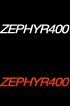
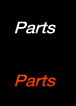
Fix yokohama

Changed region(s): [[0.0, 0.6792, 1.0, 0.8208], [0.0, 0.1981, 1.0, 0.3396]]

diff --git a/yokohama_parts.html b/yokohama_parts.html
@@ -1,0 +1,95 @@
+<?xml version="1.0" encoding="utf-8"?>
+<!DOCTYPE html PUBLIC "-//W3C//DTD XHTML 1.0 Transitional//EN" "http://www.w3.org/TR/xhtml1/DTD/xhtml1-transitional.dtd">
+<html xmlns="http://www.w3.org/1999/xhtml" lang="ja-JP" xml:lang="ja-JP">
+<head>
+<meta http-equiv="content-type" content="text/html; charset=utf-8" />
+<meta http-equiv="Content-Script-Type" content="text/javascript" />
+<meta http-equiv="Content-Style-Type" content="text/css" />
+<meta name="keywords" content="横浜スタイル　DEEPINSIDE ディープインサイド バイク" />
+<meta name="description" content="横浜スタイル☆トータルプロデュース！元祖横浜スタイルはお任せください。" />
+<title>横浜スタイル | DEEPINSIDE mc045</title>
+<link rel="stylesheet" href="css/common.css" type="text/css" />
+<link rel="stylesheet" href="css/shop.css" type="text/css" />
+<link rel="stylesheet" href="css/lightbox.css" type="text/css" />
+<link rel="stylesheet" href="css/yokohamaParts.css" type="text/css" />
+<script type="text/javascript" src="js/jquery.js"></script>
+<script type="text/javascript" src="js/common.js"></script>
+<script type="text/javascript" src="js/crossSlide.js"></script>
+<script type="text/javascript" src="js/cycle.js"></script>
+<script type="text/javascript" src="js/expander.js"></script>
+<script type="text/javascript" src="js/bxSlider.js"></script>
+<script type="text/javascript" src="js/shop.js"></script>
+<script type="text/javascript" src="js/jquery.lightbox.js"></script>
+<script>
+$(function(){
+	$('#list a').lightBox({fixedNavigation:true});
+})
+</script>
+</head>
+<body>
+
+	<div id="container">
+  	<?php require("./module/header.html"); ?>
+    
+    <div id="wrapper">
+    	<div id="mask">
+      	<img src="images/mask.png" width="1280" height="635" alt="mask" />
+      </div>
+      
+      <?php require("./module/key_visual_yokohama.html"); ?>
+      
+    	<div id="main" class="yokohama">
+      	<?php require("./module/lead_block_default.html"); ?>
+        
+        <div id="bottomMenu">
+        	<div id="navWrap">
+          	<dl>
+            	<dt>DEEP☆INSIDE .Street</dd>
+            	<dd class="nav1"><a href="yokohama.html" class="current">Home</a></dd>
+              <dd class="nav2"><a href="http://www.goobike.com/shop/client_8502081/showroom.html" target="_blank">Showroom</a></dd>
+              <dd class="nav3"><a href="yokohama_complete.html">DEEP Complete</a></dd>
+              <dd class="nav4"><a href="yokohama_zep.html">ZEPHYR0</a></dd>
+              <dd class="nav5"><a href="yokohama_balios.html">Balios</a></dd>
+              <dd class="nav6"><a href="javascript:void(0)" class="current">Parts</a></dd>
+            </dl><!-- /#nav -->
+          </div><!-- /#navWrap -->
+          <div id="content">
+
+            <div id="block1" class="mt30">
+              <img src="images/yokohamaPartsLine1.jpg" alt="カスタムパーツ一覧 横浜スタイル" class="mb20" />
+              <ul id="list">
+                <li><a href="images/goods/1_1.jpg" title="<p class='ttl'>ZEPHERY1100 Mk-Ⅱ外装セット 寺崎 Ver. ¥250,000(税抜) フェンダーレスKIT付・ボルトオン・ノーマルシート対応(FXタンクキャップ、Mk-Ⅱテールランプ別売り)</p><p class='link'><a href='goods2.html'>ご購入はこちらから</a></p>"><img src="images/goods/1_1s.jpg" title="hoge"/></a></li>
+                <li><a href="images/goods/1_2.jpg" title="<p class='ttl'>ZEPHERY1100 Mk-Ⅱ外装セット 本牧 Ver. ¥250,000(税抜) フェンダーレスKIT付・ボルトオン・ノーマルシート対応(FXタンクキャップ、Mk-Ⅱテールランプ別売り)</p><p class='link'><a href='goods2.html'>ご購入はこちらから</a></p>"><img src="images/goods/1_2s.jpg" /></a></li>
+                <li><a href="images/goods/1_3.jpg" title="<p class='ttl'>ZEPHERY1100 Mk-Ⅱ外装セット 赤レンガ Ver. ¥250,000(税抜) フェンダーレスKIT付・ボルトオン・ノーマルシート対応(FXタンクキャップ、Mk-Ⅱテールランプ別売り)</p><p class='link'><a href='goods2.html'>ご購入はこちらから</a></p>"><img src="images/goods/1_3s.jpg" /></a></li>
+                <li><a href="images/goods/1_4.jpg" title="<p class='ttl'>ZEPHERY1100 Mk-Ⅱ外装セット 横須賀 Ver. ¥250,000(税抜) フェンダーレスKIT付・ボルトオン・ノーマルシート対応(FXタンクキャップ、Mk-Ⅱテールランプ別売り)</p><p class='link'><a href='goods2.html'>ご購入はこちらから</a></p>"><img src="images/goods/1_4s.jpg" /></a></li>
+                <li><a href="images/goods/1_5.jpg" title="<p class='ttl'>ZEPHERY1100 Mk-Ⅱ外装セット 黒ゲル ¥190,000(税抜) フェンダーレスKIT付・ボルトオン・ノーマルシート対応(FXタンクキャップ、Mk-Ⅱテールランプ別売り)</p><p class='link'><a href='goods2.html'>ご購入はこちらから</a></p>"><img src="images/goods/1_5s.jpg" /></a></li>
+                <li><a href="images/goods/2_1.jpg" title="<p class='ttl'>ZEPHERY ショート管 1100用 ¥45,000(税抜) / 750用 ¥45,000(税抜) / 400χ用 ¥35,000(税抜)</p><p class='link'><a href='goods2.html'>ご購入はこちらから</a></p>"><img src="images/goods/2_1s.jpg" /></a></li>
+                <li><a href="images/goods/2_2.jpg" title="<p class='ttl'>ZEPHERY モナカ管 1100用 ¥49,000(税抜) / 750用 ¥49,000(税抜) / 400χ用 ¥49,000(税抜)</p><p class='link'><a href='goods2.html'>ご購入はこちらから</a></p>"><img src="images/goods/2_2s.jpg" /></a></li>
+              </ul>
+            </div><!-- /#block1 -->
+            
+            <div id="block2" class="mb30">
+            	<img src="images/yokohamaPartsLine2.jpg" alt="DEEP管 横浜スタイル" class="mb20" />
+              <div class="hdn mr10 ml10">
+              	<div class="lt"><img src="images/partsImg1.jpg" alt="DEEP管 横浜スタイル" /></div>
+            		<div class="rt">
+                	<p><iframe width="280" height="200" src="http://www.youtube.com/embed/1myjyZfLAhs" frameborder="0" allowfullscreen></iframe></p>
+                  <p class="mt05"><iframe width="280" height="200" src="http://www.youtube.com/embed/jm4NPZ02JcE" frameborder="0" allowfullscreen></iframe></p>
+                </div>
+            </div><!-- /#block2 -->
+
+          </div><!-- /#content -->
+
+          
+        </div><!-- /#bottomMenu -->
+        
+        <?php require("./module/bnr_area.html"); ?>
+        
+        <?php require("./module/footer.html"); ?>
+        
+      </div><!-- /#main -->
+    </div><!-- /#wrapper -->
+  </div><!-- /#container -->
+
+</body>
+</html>

diff --git a/yokohama_zep.html b/yokohama_zep.html
@@ -11,7 +11,7 @@
 <link rel="stylesheet" href="css/common.css" type="text/css" />
 <link rel="stylesheet" href="css/shop.css" type="text/css" />
 <link rel="stylesheet" href="css/lightbox.css" type="text/css" />
-<link rel="stylesheet" href="css/yokohamaTw.css" type="text/css" />
+<link rel="stylesheet" href="css/yokohamaZep.css" type="text/css" />
 <script type="text/javascript" src="js/jquery.js"></script>
 <script type="text/javascript" src="js/common.js"></script>
 <script type="text/javascript" src="js/crossSlide.js"></script>
@@ -19,6 +19,7 @@
 <script type="text/javascript" src="js/expander.js"></script>
 <script type="text/javascript" src="js/bxSlider.js"></script>
 <script type="text/javascript" src="js/shop.js"></script>
+<script type="text/javascript" src="js/yokohamaZep.js"></script>
 <script type="text/javascript" src="js/jquery.lightbox.js"></script>
 <script>
 $(function(){
@@ -45,17 +46,42 @@ $(function(){
         	<div id="navWrap">
           	<dl>
             	<dt>DEEP☆INSIDE .Street</dd>
-
-            	<dd class="nav1"><a href="yokohama.html" class="">Home</a></dd>
+            	<dd class="nav1"><a href="yokohama.html">Home</a></dd>
               <dd class="nav2"><a href="http://www.goobike.com/shop/client_8502081/showroom.html" target="_blank">Showroom</a></dd>
               <dd class="nav3"><a href="yokohama_complete.html">DEEP Complete</a></dd>
-              <dd class="nav4"><a href="javascript:void(0)" class="current">ZEPHYR1100</a></dd>
-              <dd class="nav5"><a href="yokohama_zep750.html">ZEPHYR750</a></dd>
-              <dd class="nav6"><a href="yokohama_zep400.html">ZEPHYR400</a></dd>
-              <dd class="nav7"><a href="yokohama_balios.html">Balios</a></dd>
+              <dd class="nav4"><a href="javascript:void(0)" class="current">ZEPHYR0</a></dd>
+              <dd class="nav5"><a href="yokohama_balios.html">Balios</a></dd>
+              <dd class="nav6"><a href="yokohama_parts.html">Parts</a></dd>
             </dl><!-- /#nav -->
           </div><!-- /#navWrap -->
-          <div id="showCase">
+          <div id="tab">
+            <ul>
+              <li id="sw1"><a href="javascript:void(0)" class="current">zephyr400</a></li>
+              <li id="sw2"><a href="javascript:void(0)">zephyr750</a></li>
+              <li id="sw3"><a href="javascript:void(0)">zephyr1100</a></li>
+            </ul>
+          </div>
+          <div id="showCase1">
+          	<p class="mt30"><img src="images/zephyr400/ttlZep400.jpg" /></p>
+          	<div class="imgWrap mt20" style="margin-bottom:100px;">
+              <a href="images/zephyr400/zephyr_400_001.jpg"><img src="images/zephyr400/zephyr_400_001s.jpg" /></a>
+              <a href="images/zephyr400/zephyr_400_002.jpg"><img src="images/zephyr400/zephyr_400_002s.jpg" /></a>
+              <a href="images/zephyr400/zephyr_400_003.jpg"><img src="images/zephyr400/zephyr_400_003s.jpg" /></a>
+              <a href="images/zephyr400/zephyr_400_004.jpg"><img src="images/zephyr400/zephyr_400_004s.jpg" /></a>
+              <a href="images/zephyr400/zephyr_400_005.jpg"><img src="images/zephyr400/zephyr_400_005s.jpg" /></a>
+            </div><!-- /.imgWrap -->
+          </div><!-- /#showCase -->
+          <div id="showCase2">
+          	<p class="mt30"><img src="images/zephyr750/ttlZep750.jpg" /></p>
+          	<div class="imgWrap mt20" style="margin-bottom:100px;">
+              <a href="images/zephyr750/zephyr_750_001.jpg"><img src="images/zephyr750/zephyr_750_001s.jpg" /></a>
+              <a href="images/zephyr750/zephyr_750_002.jpg"><img src="images/zephyr750/zephyr_750_002s.jpg" /></a>
+              <a href="images/zephyr750/zephyr_750_003.jpg"><img src="images/zephyr750/zephyr_750_003s.jpg" /></a>
+              <a href="images/zephyr750/zephyr_750_004.jpg"><img src="images/zephyr750/zephyr_750_004s.jpg" /></a>
+              <a href="images/zephyr750/zephyr_750_005.jpg"><img src="images/zephyr750/zephyr_750_005s.jpg" /></a>
+            </div><!-- /.imgWrap -->
+          </div><!-- /#showCase -->
+          <div id="showCase3">
           	<p class="mt30"><img src="images/zephyr1100/ttlZep1100.jpg" /></p>
           	<div class="imgWrap mt20" style="margin-bottom:100px;">
               <a href="images/zephyr1100/zephyr_1100_001.jpg"><img src="images/zephyr1100/zephyr_1100_001s.jpg" /></a>

diff --git a/css/shop.css b/css/shop.css
@@ -247,26 +247,23 @@ div.yokohama #bottomMenu #navWrap dd a.current {
   background-position: 0 0;
 }
 div.yokohama #navWrap dd.nav1 {
-  width: 35px;
-  left: 448px; }
+  width: 73px;
+  left: 446px; }
 div.yokohama #navWrap dd.nav2 {
-  width: 61px;
-  left: 491px; }
+  width: 109px;
+  left: 519px; }
 div.yokohama #navWrap dd.nav3 {
-  width: 89px;
-  left: 559px; }
-div.yokohama #navWrap dd.nav4 {
-  width: 77px;
-  left: 656px; }
-div.yokohama #navWrap dd.nav5 {
-  width: 71px;
-  left: 739px; }
-div.yokohama #navWrap dd.nav6 {
   width: 70px;
-  left: 817px; }
-div.yokohama #navWrap dd.nav7 {
-  width: 55px;
-  left: 894px; }
+  left: 628px; }
+div.yokohama #navWrap dd.nav4 {
+  width: 83px;
+  left: 698px; }
+div.yokohama #navWrap dd.nav5 {
+  width: 104px;
+  left: 781px; }
+div.yokohama #navWrap dd.nav6 {
+  width: 76px;
+  left: 877px; }
 div.yokohama #navWrap dd.nav1 a {
   background: url(../images/yokohamaNav1.jpg) 0 0 no-repeat; }
 div.yokohama #navWrap dd.nav2 a {
@@ -279,8 +276,6 @@ div.yokohama #navWrap dd.nav5 a {
   background: url(../images/yokohamaNav5.jpg) 0 0 no-repeat; }
 div.yokohama #navWrap dd.nav6 a {
   background: url(../images/yokohamaNav6.jpg) 0 0 no-repeat; }
-div.yokohama #navWrap dd.nav7 a {
-  background: url(../images/yokohamaNav7.jpg) 0 0 no-repeat; }
 div.yokohama #navWrap dd a:hover,
 div.yokohama #navWrap dd a.current {
     background-position: 0 -53px!important;

diff --git a/yokohama_balios.html b/yokohama_balios.html
@@ -45,14 +45,12 @@ $(function(){
         	<div id="navWrap">
           	<dl>
             	<dt>DEEP☆INSIDE .Street</dd>
-
-            	<dd class="nav1"><a href="yokohama.html" class="">Home</a></dd>
+            	<dd class="nav1"><a href="yokohama.html">Home</a></dd>
               <dd class="nav2"><a href="http://www.goobike.com/shop/client_8502081/showroom.html" target="_blank">Showroom</a></dd>
               <dd class="nav3"><a href="yokohama_complete.html">DEEP Complete</a></dd>
-              <dd class="nav4"><a href="yokohama_zep1100.html" class="">ZEPHYR1100</a></dd>
-              <dd class="nav5"><a href="yokohama_zep750.html">ZEPHYR750</a></dd>
-              <dd class="nav6"><a href="yokohama_zep400.html">ZEPHYR400</a></dd>
-              <dd class="nav7"><a href="javascript:void(0)" class="current">Balios</a></dd>
+              <dd class="nav4"><a href="yokohama_zep.html">ZEPHYR0</a></dd>
+              <dd class="nav5"><a href="javascript:void(0)" class="current">Balios</a></dd>
+              <dd class="nav6"><a href="yokohama_parts.html">Parts</a></dd>
             </dl><!-- /#nav -->
           </div><!-- /#navWrap -->
           <div id="showCase">

diff --git a/yokohama_complete.html b/yokohama_complete.html
@@ -44,14 +44,12 @@ $(function(){
         	<div id="navWrap">
           	<dl>
             	<dt>DEEP☆INSIDE .Street</dd>
-              <
-            	<dd class="nav1"><a href="yokohama.html" class="">Home</a></dd>
+            	<dd class="nav1"><a href="yokohama.html">Home</a></dd>
               <dd class="nav2"><a href="http://www.goobike.com/shop/client_8502081/showroom.html" target="_blank">Showroom</a></dd>
               <dd class="nav3"><a href="javascript:void(0)" class="current">DEEP Complete</a></dd>
-              <dd class="nav4"><a href="yokohama_zep1100.html">ZEPHYR1100</a></dd>
-              <dd class="nav5"><a href="yokohama_zep750.html">ZEPHYR750</a></dd>
-              <dd class="nav6"><a href="yokohama_zep400.html">ZEPHYR400</a></dd>
-              <dd class="nav7"><a href="yokohama_balios.html">Balios</a></dd>
+              <dd class="nav4"><a href="yokohama_zep.html">ZEPHYR0</a></dd>
+              <dd class="nav5"><a href="yokohama_balios.html">Balios</a></dd>
+              <dd class="nav6"><a href="yokohama_parts.html">Parts</a></dd>
             </dl><!-- /#nav -->
           </div><!-- /#navWrap -->
           <div id="showCase">

diff --git a/yokohama.html b/yokohama.html
@@ -65,10 +65,9 @@ $(function(){
             	<dd class="nav1"><a href="javascript:void(0)" class="current">Home</a></dd>
               <dd class="nav2"><a href="http://www.goobike.com/shop/client_8502081/showroom.html" target="_blank">Showroom</a></dd>
               <dd class="nav3"><a href="yokohama_complete.html">DEEP Complete</a></dd>
-              <dd class="nav4"><a href="yokohama_zep1100.html">ZEPHYR1100</a></dd>
-              <dd class="nav5"><a href="yokohama_zep750.html">ZEPHYR750</a></dd>
-              <dd class="nav6"><a href="yokohama_zep400.html">ZEPHYR400</a></dd>
-              <dd class="nav7"><a href="yokohama_balios.html">Balios</a></dd>
+              <dd class="nav4"><a href="yokohama_zep.html">ZEPHYR0</a></dd>
+              <dd class="nav5"><a href="yokohama_balios.html">Balios</a></dd>
+              <dd class="nav6"><a href="yokohama_parts.html">Parts</a></dd>
             </dl><!-- /#nav -->
           </div><!-- /#navWrap -->
           <p id="topLead"><a href="access.html"><img src="images/yokohamaTopLead.jpg" /></a></p>

diff --git a/js/yokohamaZep.js b/js/yokohamaZep.js
@@ -1,0 +1,32 @@
+
+$(function(){
+	
+	/*==============================/
+	// contents photo viewer
+	/==============================*/
+	$('#light1 a,#light2 a,#light3 a').lightBox({fixedNavigation:true});
+
+	$("#sw1").click(function(){
+		$("#showCase1").show();
+		$("#showCase2,#showCase3").hide();
+		$("#tab ul li a").each(function(){ $(this).removeClass("current")})
+		$(this).find("a").addClass("current")
+	})
+	
+	$("#sw2").click(function(){
+		$("#showCase2").show();
+		$("#showCase1,#showCase3").hide();
+		$("#tab ul li a").each(function(){ $(this).removeClass("current")})
+		$(this).find("a").addClass("current")
+	})
+	
+	$("#sw3").click(function(){
+		$("#showCase3").show();
+		$("#showCase1,#showCase2").hide();
+		$("#tab ul li a").each(function(){ $(this).removeClass("current")})
+		$(this).find("a").addClass("current")
+	})
+
+
+		
+});

diff --git a/css/yokohamaZep.css b/css/yokohamaZep.css
@@ -1,0 +1,19 @@
+@charset "UTF-8";
+
+#tab { border-bottom: 1px solid #ed2800; margin: 30px 0 0;}
+#tab ul{ overflow:hidden}
+#tab ul li{ height:26px; width:197px; float:left; margin-right:1px;}
+#tab ul li a{ display:block; text-indent:-9999px; width:100%; height:100%; background:url(../images/yokohamaZepTab.jpg)}
+#tab ul #sw1 a{ background-position:0 0;}
+#tab ul #sw2 a{ background-position:396px 0}
+#tab ul #sw3 a{ background-position:198px 0}
+#tab ul #sw1 a:hover,
+#tab ul #sw1 a.current{ background-position:0 -26px;}
+#tab ul #sw2 a:hover,
+#tab ul #sw2 a.current{ background-position:396px -26px}
+#tab ul #sw3 a:hover,
+#tab ul #sw3 a.current{ background-position:198px -26px}
+
+#showCase2,
+#showCase3 { display:none;}
+

diff --git a/css/yokohamaParts.css b/css/yokohamaParts.css
@@ -1,0 +1,11 @@
+@charset "UTF-8";
+
+#list {
+  overflow: hidden;
+}
+#list li {
+  float: left;
+  width: 180px;
+  margin-left: 10px;
+  margin-bottom: 10px;
+}
